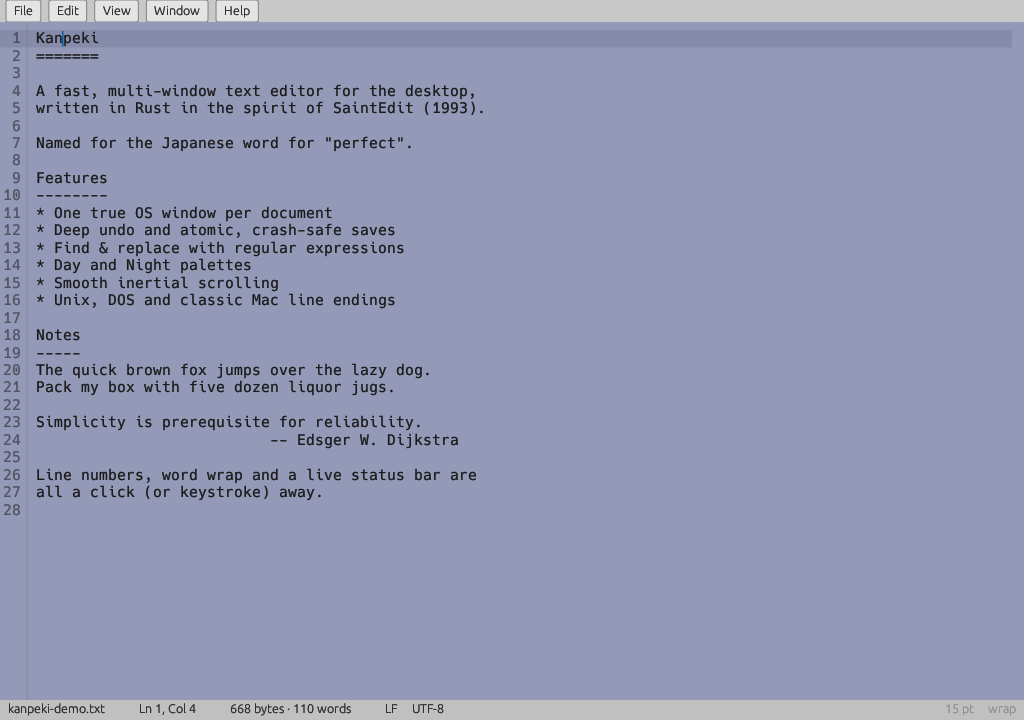
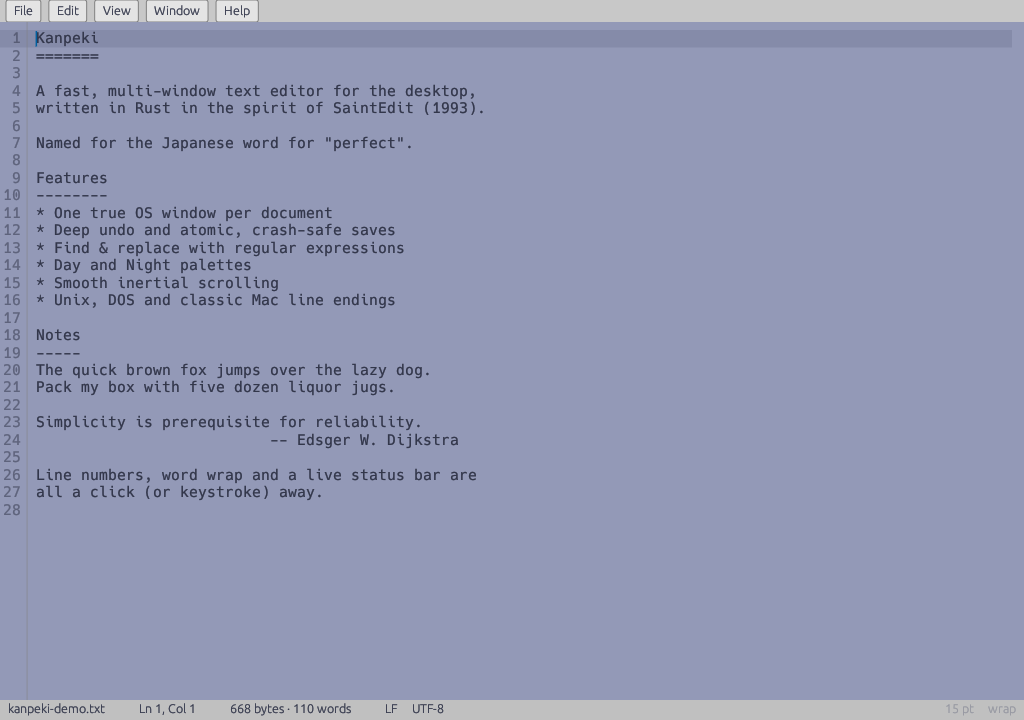
Day and Night are now one duotone palette
- Night text is the Day paper (#9399b7); Day text is the night ink
  (#32364a). Menu, status and dialog text follow the same pair.
- Night selection inverts the duotone (paper band, ink text) so selected
  text stays readable; the editor repaints the selected run clipped to the
  selection rect, leaving glyph positions untouched.
- Add selection_fg, widget_selection, gutter_fg, hint_fg and caption_fg to
  Theme so gutters and dimmed dialog text stay legible in both modes.
- Refresh the README screenshots.

diff --git a/src/theme.rs b/src/theme.rs
@@ -95,6 +95,16 @@ pub struct Theme {
     pub text_bg: egui::Color32,
     pub text_fg: egui::Color32,
     pub selection: egui::Color32,
+    /// Text colour used on top of the selection.
+    pub selection_fg: egui::Color32,
+    /// Selection colour for egui widgets (text fields, menus).
+    pub widget_selection: egui::Color32,
+    /// Line-number colour.
+    pub gutter_fg: egui::Color32,
+    /// Hint text inside fields.
+    pub hint_fg: egui::Color32,
+    /// Small uppercase captions.
+    pub caption_fg: egui::Color32,
     pub accent: egui::Color32,
     pub current_line: egui::Color32,
     pub status_bg: egui::Color32,
@@ -117,18 +127,16 @@ impl Theme {
             // Kanpeki's day paper.
             egui::Color32::from_rgb(0x93, 0x99, 0xb7)
         };
-        // Pick readable text for whatever background we ended up with.
-        let [r, g, b, _] = bg.to_normalized_gamma_f32();
-        let lum = 0.299 * r + 0.587 * g + 0.114 * b;
-        let dark_bg = lum < 0.45;
-        let text_fg = if dark_bg {
-            egui::Color32::from_rgb(232, 232, 232)
+        // The two palettes are a duotone: Night is the Day paper on the night
+        // ink, and Day is the night ink on the Day paper.
+        let text_fg = if dark {
+            egui::Color32::from_rgb(0x93, 0x99, 0xb7)
         } else {
-            egui::Color32::from_rgb(26, 26, 26)
+            egui::Color32::from_rgb(0x32, 0x36, 0x4a)
         };
         // The current line is a shade of the background, never flat gray.
         let shift = |c: u8| -> u8 {
-            if dark_bg {
+            if dark {
                 c.saturating_add(14)
             } else {
                 c.saturating_sub(14)
@@ -141,10 +149,16 @@ impl Theme {
                 mode: ThemeMode::Night,
                 chrome: egui::Color32::from_rgb(30, 30, 30),
                 menu_bar: egui::Color32::from_rgb(42, 42, 42),
-                menu_fg: egui::Color32::from_rgb(220, 220, 220),
+                menu_fg: text_fg,
                 text_bg: bg,
                 text_fg,
-                selection: egui::Color32::from_rgb(46, 92, 138),
+                // Selecting swaps the duotone, like classic inverse video.
+                selection: text_fg,
+                selection_fg: bg,
+                widget_selection: egui::Color32::from_rgb(30, 58, 95),
+                gutter_fg: text_fg.gamma_multiply(0.80),
+                hint_fg: text_fg.gamma_multiply(0.72),
+                caption_fg: text_fg.gamma_multiply(0.75),
                 accent: egui::Color32::from_rgb(111, 179, 255),
                 current_line,
                 status_bg: egui::Color32::from_rgb(38, 38, 38),
@@ -158,10 +172,15 @@ impl Theme {
                 mode: ThemeMode::Day,
                 chrome: egui::Color32::from_rgb(180, 180, 180),
                 menu_bar: egui::Color32::from_rgb(200, 200, 200),
-                menu_fg: egui::Color32::from_rgb(30, 30, 30),
+                menu_fg: text_fg,
                 text_bg: bg,
                 text_fg,
                 selection: egui::Color32::from_rgb(110, 150, 205),
+                selection_fg: text_fg,
+                widget_selection: egui::Color32::from_rgb(110, 150, 205),
+                gutter_fg: text_fg.gamma_multiply(0.55),
+                hint_fg: text_fg.gamma_multiply(0.45),
+                caption_fg: text_fg.gamma_multiply(0.62),
                 accent: egui::Color32::from_rgb(0, 96, 160),
                 current_line,
                 status_bg: egui::Color32::from_rgb(192, 192, 192),
@@ -192,7 +211,7 @@ impl Theme {
         v.widgets.hovered.fg_stroke = egui::Stroke::new(1.0_f32, self.menu_fg);
         v.widgets.active.bg_fill = self.widget_hover;
         v.widgets.active.fg_stroke = egui::Stroke::new(1.0_f32, self.menu_fg);
-        v.selection.bg_fill = self.selection;
+        v.selection.bg_fill = self.widget_selection;
         v.selection.stroke = egui::Stroke::new(1.0_f32, self.accent);
         v.hyperlink_color = self.accent;
         v

diff --git a/src/windows.rs b/src/windows.rs
@@ -1488,7 +1488,7 @@ impl DocWindow {
                     Align2::RIGHT_CENTER,
                     (line.row + 1).to_string(),
                     font_id.clone(),
-                    theme.text_fg.gamma_multiply(0.55),
+                    theme.gutter_fg,
                 );
             }
 
@@ -1500,6 +1500,7 @@ impl DocWindow {
             widest = widest.max(chunk_w);
 
             // Selection background for this visual line.
+            let mut sel_rect = None;
             if sel_a != sel_b && vl >= sel_a_vl && vl <= sel_b_vl {
                 let c0 = if vl == sel_a_vl {
                     editor::visual_col_of(&self.doc, &self.map, vl, sel_a)
@@ -1516,6 +1517,7 @@ impl DocWindow {
                     let x1 = area.min.x + PAD + c1 as f32 * glyph_w - self.scroll_x;
                     let sr = Rect::from_min_max(Pos2::new(x0, y), Pos2::new(x1, y + row_h));
                     painter.rect_filled(sr, 0.0, theme.selection);
+                    sel_rect = Some(sr);
                 }
             }
 
@@ -1533,10 +1535,24 @@ impl DocWindow {
                 painter.text(
                     Pos2::new(x, y + row_h * 0.5),
                     Align2::LEFT_CENTER,
-                    shown,
+                    &shown,
                     font_id.clone(),
                     theme.text_fg,
                 );
+                // Repaint the selected run in the inverted colour. Clipping to
+                // the selection rect keeps the glyph positions identical, so
+                // the boundary is exactly the column edge.
+                if let Some(sr) = sel_rect {
+                    if theme.selection_fg != theme.text_fg {
+                        painter.with_clip_rect(sr.intersect(rect)).text(
+                            Pos2::new(x, y + row_h * 0.5),
+                            Align2::LEFT_CENTER,
+                            &shown,
+                            font_id.clone(),
+                            theme.selection_fg,
+                        );
+                    }
+                }
             }
         }
 

diff --git a/src/dialogs.rs b/src/dialogs.rs
@@ -317,9 +317,7 @@ fn find_body(
         ui.add(
             egui::TextEdit::singleline(text)
                 .hint_text(
-                    egui::RichText::new(hint)
-                        .size(13.0)
-                        .color(theme.text_fg.gamma_multiply(0.45)),
+                    egui::RichText::new(hint).size(13.0).color(theme.hint_fg),
                 )
                 .margin(egui::Margin::symmetric(8.0, 6.0))
                 .desired_width(f32::INFINITY),
@@ -330,7 +328,7 @@ fn find_body(
             egui::RichText::new(text)
                 .size(10.0)
                 .strong()
-                .color(theme.text_fg.gamma_multiply(0.62)),
+                .color(theme.caption_fg),
         );
     };
 
@@ -389,7 +387,7 @@ fn find_body(
                         ThemeMode::Day => egui::Color32::from_rgb(28, 110, 52),
                     }
                 } else {
-                    theme.text_fg.gamma_multiply(0.6)
+                    theme.caption_fg
                 };
                 ui.label(egui::RichText::new(msg).size(12.0).color(color));
             }

diff --git a/HANDOFF.md b/HANDOFF.md
@@ -41,7 +41,7 @@ Already fixed while writing Parts 2–5 (avoid re-introducing these):
 - Typing, caret, click/drag selection, double-click word select; status bar Ln/Col, bytes, words, EOL, encoding, notes.
 - Save (atomic), Save As with full paths, recents; title/status update after save.
 - Undo/redo (Ctrl+Z / Ctrl+Shift+Z / Ctrl+Y), find & replace (Next/Previous/Replace/Replace All with messages).
-- Word wrap (reflows long lines) and Day/Night palettes (persisted in `settings.json`).
+- Word wrap (reflows long lines) and Day/Night palettes (persisted in `settings.json`). The palettes are a duotone: Day is night ink (`#32364a`) on day paper (`#9399b7`); Night is day paper on night ink. Night's selection inverts the pair (paper band, ink text).
 - EOL round-trips: CRLF file stayed CRLF, classic-Mac CR stayed CR, UTF-8 BOM preserved; each detected correctly.
 - 8.96 MB file: opens in about a second, wheel scrolling with inertia, typing stays instant (word count off-thread).
 - Unsaved-changes prompt on Ctrl+W / File > Close; Cancel / Don't Save / Save; app exits when the last window closes.
@@ -261,7 +261,9 @@ impl Settings { pub fn load() -> Self; pub fn save(&self); pub fn add_recent(&mu
 #[derive(Clone, Copy)]
 pub struct Theme {
     pub mode: ThemeMode,
-    pub chrome, menu_bar, menu_fg, text_bg, text_fg, selection, accent,
+    pub chrome, menu_bar, menu_fg, text_bg, text_fg, accent,
+    pub selection, selection_fg, widget_selection,
+    pub gutter_fg, hint_fg, caption_fg,
     pub current_line, status_bg, dialog_bg, border, widget_fill, widget_hover: egui::Color32,
 }
 impl Theme { pub fn resolve(settings: &Settings) -> Self; pub fn egui_visuals(&self) -> egui::Visuals; }
@@ -401,7 +403,10 @@ fn redraw(&mut self, c: &mut AppCommon, egui: &mut EguiGlow, window: &Window,
 - `draw_editor(ui, theme, &font_id, row_h, glyph_w, rect, wrap, font_size)`:
   clip to `rect`; `ensure_map`; compute visible visual lines from `scroll.offset`;
   current-line highlight (`theme.current_line`), selection rects (`theme.selection`), text via
-  `painter.text(pos, Align2::LEFT_CENTER, chunk, font_id.clone(), theme.text_fg)`, solid caret
+  `painter.text(pos, Align2::LEFT_CENTER, chunk, font_id.clone(), theme.text_fg)`; when
+  `selection_fg != text_fg` the selected run is repainted with `painter.with_clip_rect(sel_rect)`
+  in `theme.selection_fg` (the Night inverse; glyph positions are identical because the whole
+  line is drawn twice at the same x). Gutters use `theme.gutter_fg`, solid caret
   (1.5 px `theme.accent` bar at the caret cell — **no blink**: egui-multiwin installs no repaint callback and delayed redraws aren't possible).
 - `status_bar`: `●` + name; `Ln l, Col c` (1-based); `{} bytes · {} words`; EOL label; encoding label; `note`; right-aligned wrap indicator.
   Drain `words_rx` each frame (`try_recv`, keep result only if `gen == doc.edits`); call `count_words()` lazily.

diff --git a/README.md b/README.md
@@ -10,7 +10,7 @@ Named for the Japanese word for “perfect”.
 - One true OS window per document, with a Window menu listing every open file
 - Deep undo/redo and atomic, crash-safe saves (temp file + fsync + rename)
 - Find & replace: plain text or regex, case-sensitive, whole-word
-- Day (`#9399b7`) and Night (`#32364a`) palettes
+- Duotone Day and Night palettes: `#9399b7` paper and `#32364a` ink, swapped between modes
 - Smooth inertial scrolling, word wrap, optional line numbers
 - Unix, DOS and classic-Mac line endings detected and preserved on save
 - Reads UTF-8 (with BOM), UTF-16 and Latin-1; saves as UTF-8
